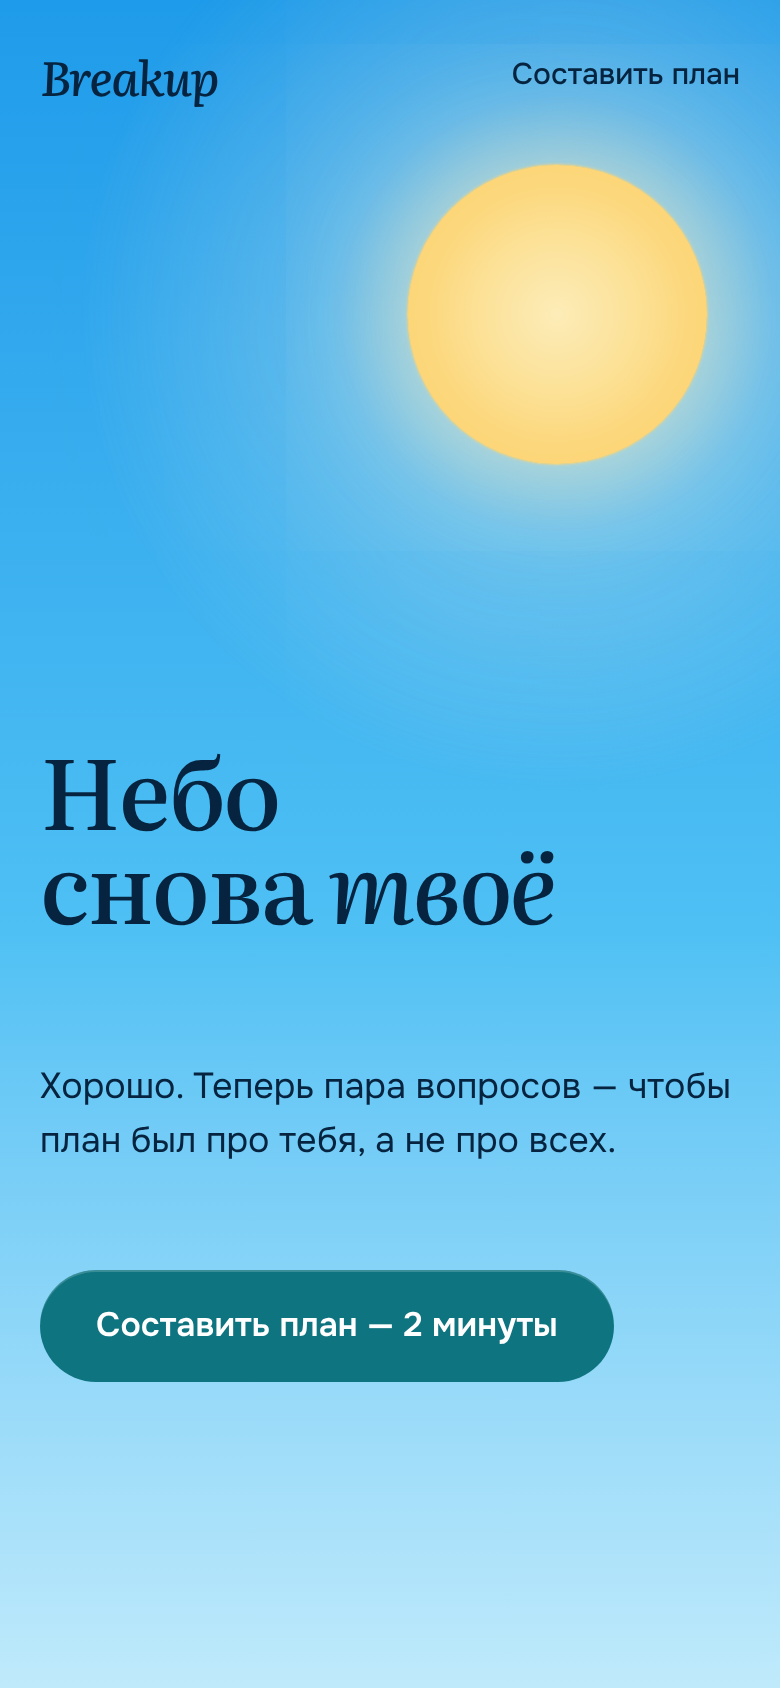
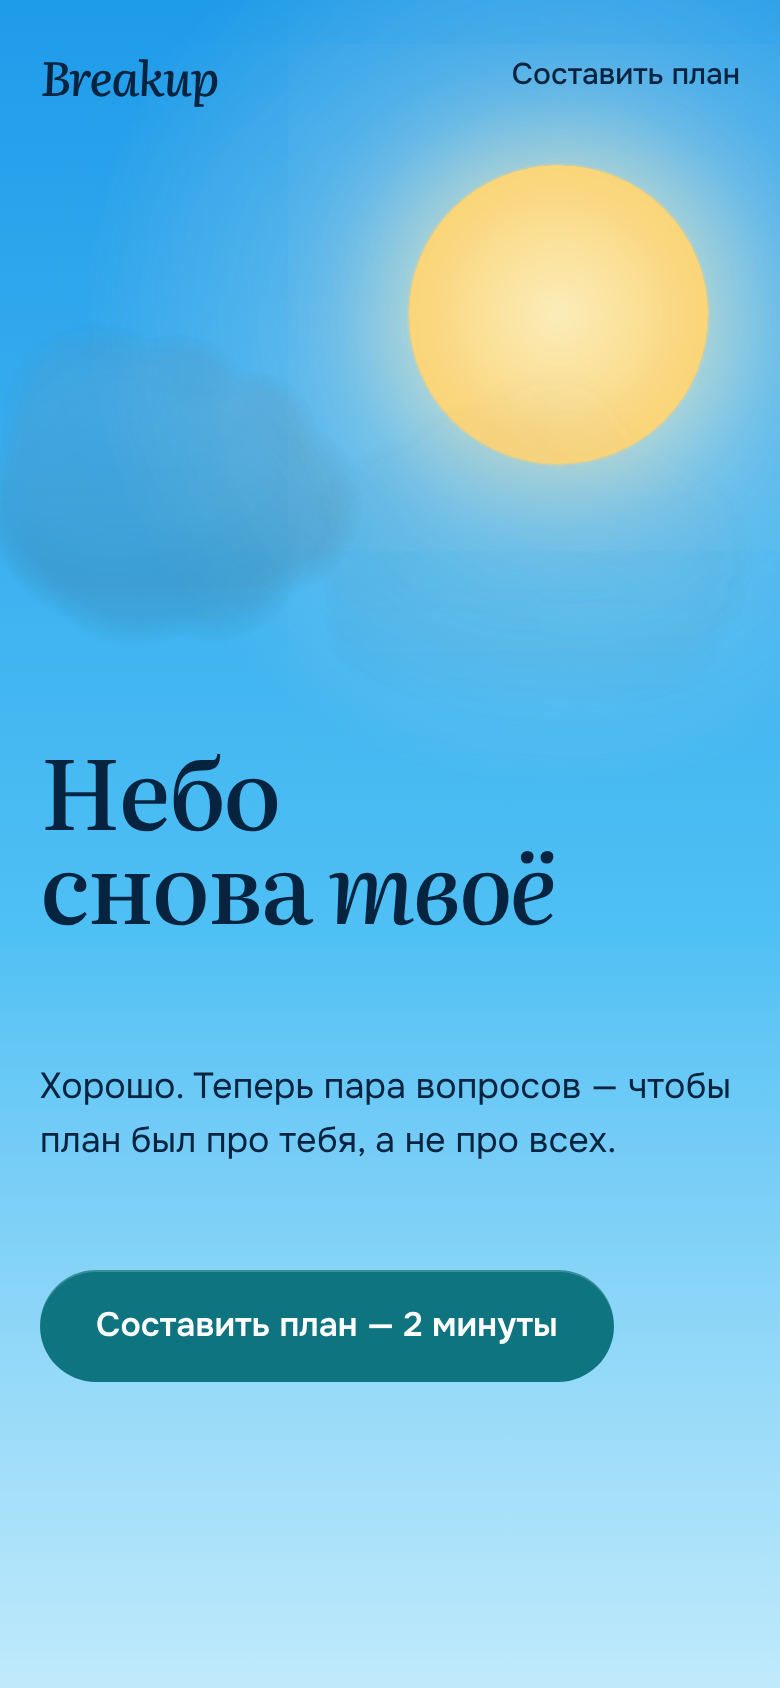
v8: round-4 visual fixes - fog not discs, softer rim, wave and money layout
The smog bank is now two layers of large soft blobs under a vertical
mask instead of a row of discs; the cloud rim is 40% weaker; Nick's
bubbles carry a shadow so they sit in front of the smog; the wave
timer joins the button and the idle curve has a faint fill; money
shows the yearly sum with its equivalents side by side; the month
strip uses flat tones.

Claude-Session: https://claude.ai/code/session_01CKqe4UyzFgn5AFv8yWGEaJ

Changed region(s): [[0.0308, 0.3081, 0.4308, 0.3697]]

diff --git a/design/directions/v8.html b/design/directions/v8.html
@@ -154,7 +154,7 @@ header.top .wrap{display:flex;justify-content:space-between;align-items:center;h
 .who .st{font-size:.875rem;opacity:.85}
 .bubbles{position:relative;display:flex;flex-direction:column;align-items:flex-start;gap:.22rem}
 .b{max-width:min(100%,17.5rem);text-wrap:pretty;background:var(--nick);color:var(--nick-text);padding:.6rem .95rem .64rem;font-size:1.0625rem;line-height:1.35;
-  border-radius:1.25rem;box-shadow:inset 0 0 0 1px var(--nick-ring),0 6px 18px -10px rgba(10,20,30,.55);
+  border-radius:1.25rem;box-shadow:inset 0 0 0 1px var(--nick-ring),0 6px 18px rgba(0,0,0,.25);
   opacity:0;transform:translateY(.4rem) scale(.97);transform-origin:left bottom;
   transition:opacity .22s var(--ease-out),transform .22s var(--ease-out),filter .2s ease}
 .b.last{border-bottom-left-radius:.375rem}
@@ -177,7 +177,7 @@ header.top .wrap{display:flex;justify-content:space-between;align-items:center;h
 
 /* ── Секции ── */
 .section{padding-block:clamp(4.5rem,8vw,7.5rem)}
-.section.airy{padding-block:clamp(6rem,12vw,11rem)}
+.section.airy{padding-block:clamp(6rem,12vw,11rem) clamp(3rem,6vw,5rem)}
 .section.tight{padding-block:clamp(3rem,5vw,4.5rem)}
 .airy .h2{font-size:clamp(2.75rem,6.6vw,6rem)}
 .eyebrow-n{display:none}
@@ -239,7 +239,7 @@ input[type=range]:focus-visible::-moz-range-thumb{box-shadow:0 0 0 2px var(--sky
   background:radial-gradient(60% 70% at 20% 100%,rgba(20,26,30,.9),transparent 70%),radial-gradient(55% 80% at 55% 100%,rgba(20,26,30,.85),transparent 70%),radial-gradient(50% 70% at 88% 100%,rgba(20,26,30,.8),transparent 70%)}
 .axis-note{position:relative;height:1.4rem;color:var(--calm-muted);font-size:.875rem;margin-top:.5rem}
 .axis-note span{position:absolute;top:0;translate:-50% 0;white-space:nowrap}.axis-note span:first-child{translate:0 0}.axis-note span:last-child{translate:-100% 0}
-.wave-ctl{display:grid;grid-template-columns:auto 1fr auto;align-items:center;gap:1.5rem 2rem;margin-top:1.75rem}
+.wave-ctl{display:grid;grid-template-columns:auto auto 1fr;align-items:center;gap:1.5rem 2rem;margin-top:1.75rem}
 .ride{background:var(--calm-line);color:#06292D;min-width:12rem}
 .wave-cue{transition:opacity .16s ease-out,color .3s ease;font:500 clamp(1.5rem,2.6vw,2.25rem)/1.1 var(--f-display);letter-spacing:-.015em;color:var(--calm-text)}
 .wave-cue.idle{font:500 1.0625rem/1.4 var(--f-body);letter-spacing:0;color:var(--calm-muted)}
@@ -252,7 +252,7 @@ input[type=range]:focus-visible::-moz-range-thumb{box-shadow:0 0 0 2px var(--sky
 /* ── Срыв: месяц как полоса неба ── */
 .slip-h{max-width:16ch}
 .strip{display:grid;grid-template-columns:repeat(30,minmax(0,1fr));height:clamp(9rem,16vw,12rem);border-radius:.75rem;overflow:hidden;margin-top:clamp(2.5rem,5vw,4rem);}
-.strip i{position:relative;background:linear-gradient(180deg,color-mix(in oklab,var(--sky-top) calc(var(--k) * 100%),#8FA9B6),color-mix(in oklab,var(--sky-low) calc(var(--k) * 100%),#C9D6DC))}
+.strip i{position:relative;background:color-mix(in oklab,var(--sky-mid) calc(var(--k) * 100%),#9AAAB3)}
 .strip i + i{box-shadow:inset 1px 0 0 rgba(255,255,255,.18)}
 .strip i.miss{background:var(--nick)}
 .strip i.next{background:color-mix(in oklab,var(--sky-mid) 10%,transparent)}
@@ -286,6 +286,8 @@ input[type=range]:focus-visible::-moz-range-thumb{box-shadow:0 0 0 2px var(--sky
 .calc output{display:block;font:500 clamp(1.75rem,2.6vw,2.25rem)/1.1 var(--f-display);letter-spacing:-.015em;color:var(--text);margin:.35rem 0 .25rem}
 .year{font:500 clamp(4rem,13vw,11.5rem)/.92 var(--f-display);letter-spacing:-.03em;font-variant-numeric:lining-nums tabular-nums;margin-top:clamp(2rem,4vw,3rem);white-space:nowrap}
 .year .per{font-size:.28em;letter-spacing:-.01em;margin-left:.3em;color:var(--muted)}
+.year-row{display:grid;grid-template-columns:auto minmax(0,22rem);gap:1rem clamp(2rem,4vw,4rem);align-items:end}
+@media (max-width:1100px){.year-row{grid-template-columns:minmax(0,1fr)}}
 .year-note{font-size:clamp(1.125rem,1.6vw,1.375rem);margin-top:1.25rem;max-width:40rem;text-wrap:pretty}
 .bridge{margin-top:clamp(2.5rem,5vw,4rem);padding-top:1.5rem;border-top:1px solid var(--rule);font:500 clamp(1.375rem,2.1vw,1.75rem)/1.3 var(--f-display);letter-spacing:-.01em;max-width:36rem;text-wrap:pretty}
 .bridge em{color:var(--act)}
@@ -399,7 +401,7 @@ dialog.plan.in::backdrop{background:rgba(6,36,63,.28)}
   .calm{padding-bottom:6rem}
   .calm{padding-top:6rem}
   .steps,.weeks{grid-template-columns:minmax(0,1fr);gap:2rem}
-  .wave-ctl{grid-template-columns:1fr auto}
+  .wave-ctl{grid-template-columns:auto 1fr}
   .wave-ctl .ride{grid-column:1/-1;order:3;width:100%}
   .strip-n span{visibility:hidden}.strip-n span.k{visibility:visible}
   .brain-line .dot{width:.85rem;height:.85rem}
@@ -505,8 +507,8 @@ dialog.plan.in::backdrop{background:rgba(6,36,63,.28)}
     </figure>
     <div class="wave-ctl">
       <button class="btn ride" id="ride">Переждать волну</button>
-      <span class="wave-cue idle" id="w-cue" aria-live="polite">Нажми и&nbsp;смотри, как волна спадает</span>
       <span class="wave-time" id="w-time" aria-hidden="true">0:00</span>
+      <span class="wave-cue idle" id="w-cue" aria-live="polite">Нажми и&nbsp;смотри, как волна спадает</span>
     </div>
     <p class="src">Источник: NHS, «Quit smoking: dealing with cravings». В&nbsp;демо четыре минуты идут за двенадцать секунд, в&nbsp;приложении — в&nbsp;реальном времени.</p>
   </div>
@@ -554,8 +556,8 @@ dialog.plan.in::backdrop{background:rgba(6,36,63,.28)}
       <output id="spend-v" class="num" for="spend">250 ₽ в день</output>
       <input type="range" id="spend" min="50" max="1000" step="10" value="250">
     </div>
-    <p class="year rv"><span class="num" id="year">91 250 ₽</span><span class="per">в год</span></p>
-    <p class="year-note rv" id="year-note"></p>
+    <div class="year-row"><p class="year rv"><span class="num" id="year">91 250 ₽</span><span class="per">в год</span></p>
+    <p class="year-note rv" id="year-note"></p></div>
     <p class="bridge rv" id="bridge"></p>
   </div>
 </section>
@@ -748,7 +750,7 @@ function draw(){
   rg2.globalCompositeOperation = 'source-in'; const rl = rg2.createRadialGradient(sx * DPR, sy * DPR, 0, sx * DPR, sy * DPR, sr * 3.2 * DPR);
   rl.addColorStop(0, 'rgba(255,246,222,.95)'); rl.addColorStop(.5, 'rgba(255,246,222,.4)'); rl.addColorStop(1, 'rgba(255,246,222,0)'); rg2.fillStyle = rl; rg2.fillRect(0, 0, rimC.width, rimC.height);
   rg2.globalCompositeOperation = 'destination-out'; rg2.fillStyle = '#000'; const ex = Math.ceil(Math.abs(ddx) * DPR) + 2, ey = Math.ceil(Math.abs(ddy) * DPR) + 2; rg2.fillRect(0, 0, ex, rimC.height); rg2.fillRect(rimC.width - ex, 0, ex, rimC.height); rg2.fillRect(0, 0, rimC.width, ey);
-  g2.globalCompositeOperation = 'lighter'; g2.globalAlpha = .9; g2.drawImage(rimC, 0, 0); g2.globalAlpha = 1; g2.globalCompositeOperation = 'source-over';
+  g2.globalCompositeOperation = 'lighter'; g2.globalAlpha = .5; g2.drawImage(rimC, 0, 0); g2.globalAlpha = 1; g2.globalCompositeOperation = 'source-over';
 }
 let nRects = [];
 function noteRects(){ nRects = notes.map(n => n.getBoundingClientRect()); }
@@ -955,6 +957,7 @@ function drawWave(p){
   wx.setTransform(WD, 0, 0, WD, 0, 0); wx.clearRect(0, 0, W, H);
   const pt = q => [q * W, base - curve(q) * (base - padY)];
   // весь путь волны — тихий контур, чтобы видно было, что впереди
+  if (p === 0) { const gi = wx.createLinearGradient(0, padY, 0, base); gi.addColorStop(0, 'rgba(108,201,209,.16)'); gi.addColorStop(1, 'rgba(108,201,209,0)'); wx.fillStyle = gi; wx.beginPath(); wx.moveTo(0, base); for (let q = 0; q <= 1.0001; q += .004) { const [x2, y2] = pt(q); wx.lineTo(x2, y2); } wx.lineTo(W, base); wx.closePath(); wx.fill(); }
   wx.strokeStyle = p > 0 ? 'rgba(230,238,238,.28)' : 'rgba(230,238,238,.6)'; wx.lineWidth = 2; wx.setLineDash([]); wx.lineCap = 'round'; wx.beginPath();
   for (let q = 0; q <= 1.0001; q += .004) { const [x, y] = pt(q); q === 0 ? wx.moveTo(x, y) : wx.lineTo(x, y); } wx.stroke(); wx.setLineDash([]);
   if (p > 0) {
@@ -993,14 +996,14 @@ function drawBank(){ paintBank(bank, css('--storm-top'), css('--storm-low'), 41,
 function paintBank(bank, top, lit, seed, flip){
   const W = bank.clientWidth, H = bank.clientHeight; bank.width = W; bank.height = H; const x = bank.getContext('2d'); x.clearRect(0, 0, W, H);
   if (flip) { x.translate(0, H); x.scale(1, -1); }
-  const spr = makeSprites({ body: top, lit, shade: top });
-  let q = seed; const r = () => (q = q * 16807 % 2147483647) / 2147483647;
-  const n = Math.ceil(W / (48 * Math.min(1, H / 160))) + 3;
-  for (let pass = 0; pass < 3; pass++) { x.globalAlpha = [.55, .8, 1][pass];
-    for (let i = 0; i < n; i++) { const rad = (26 + r() * (pass ? 26 : 40) + (r() < .15 ? 24 : 0)) * Math.min(1, H / 160), S = rad * 2.6, cx = (i - 1 + r()) * (W / (n - 3)), cy = Math.max(rad * .95, H - rad * [.9, .55, .25][pass] - (pass ? 0 : 8));
-      x.drawImage(spr[(i + pass) % spr.length], cx - S / 2, cy - S / 2, S, S); } }
-  x.globalAlpha = 1; const g = x.createLinearGradient(0, H - 40, 0, H); g.addColorStop(0, top + '00'); g.addColorStop(1, top); x.fillStyle = g; x.fillRect(0, H - 40, W, 40);
-  x.fillStyle = top; x.fillRect(0, H - 4, W, 4);
+  let q = seed; const r = () => (q = q * 16807 % 2147483647) / 2147483647, k = Math.min(1, H / 160);
+  // Туман, а не клубы: крупные мягкие пятна в два слоя глубины, центр каждого не выше 40% радиуса от линии гряды
+  const blob = (cx, cy, rad, col, a) => { const g = x.createRadialGradient(cx, cy, 0, cx, cy, rad); g.addColorStop(0, col); g.addColorStop(.35, col + '8c'); g.addColorStop(1, col + '00'); x.globalAlpha = a; x.fillStyle = g; x.fillRect(cx - rad, cy - rad, rad * 2, rad * 2); };
+  for (const [col, a, rmin, rvar, step] of [[lit, .5, 110, 70, 150], [top, .9, 80, 60, 110]]) {
+    const R0 = rmin * k, n = Math.ceil(W / (step * k)) + 2;
+    for (let i = 0; i < n; i++) { const rad = R0 + r() * rvar * k, cx = (i - .5 + r() * .8) * step * k, cy = H - rad * (.15 + r() * .25); blob(cx, cy, rad, col, a); } }
+  x.globalAlpha = 1; x.globalCompositeOperation = 'destination-in'; const m = x.createLinearGradient(0, 0, 0, Math.min(H, 120)); m.addColorStop(0, 'rgba(0,0,0,0)'); m.addColorStop(1, '#000'); x.fillStyle = m; x.fillRect(0, 0, W, H);
+  x.globalCompositeOperation = 'source-over'; const g = x.createLinearGradient(0, H * .55, 0, H); g.addColorStop(0, top + '00'); g.addColorStop(1, top); x.fillStyle = g; x.fillRect(0, H * .55, W, H * .45);
 }
 drawBank(); let bkT = 0; addEventListener('resize', () => { clearTimeout(bkT); bkT = setTimeout(drawBank, 150); });
 matchMedia('(prefers-color-scheme: dark)').addEventListener('change', drawBank);
